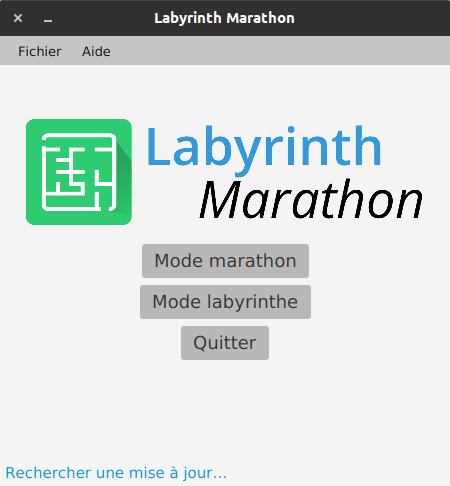
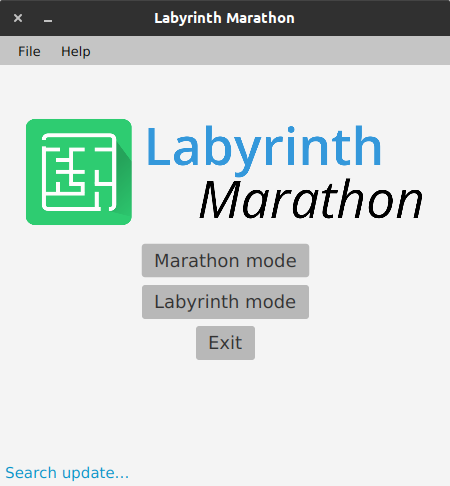
Version 1.1

diff --git a/src/view/MenuLauncher.java b/src/view/MenuLauncher.java
@@ -42,7 +42,7 @@ import javafx.stage.Stage;
 /**
  * The game menu
  * @author Eliastik
- * @version 1.0
+ * @version 1.1
  * @since 30/11/2019
  */
 public class MenuLauncher extends Application {
@@ -80,6 +80,8 @@ public class MenuLauncher extends Application {
 				alert.setHeaderText(locales.getString("aboutApp"));
 				alert.getDialogPane().getStylesheets().add(getClass().getResource("/styles/styleAlert.css").toExternalForm());
 				ImageView icon = new ImageView(new Image(getClass().getResourceAsStream("/images/icon_flat.png")));
+				Stage stageAlert = (Stage) alert.getDialogPane().getScene().getWindow();
+				stageAlert.getIcons().add(new Image("/images/icon_flat.png"));
 				icon.setFitHeight(64);
 				icon.setFitWidth(64);
 				alert.setGraphic(icon);
@@ -202,6 +204,8 @@ public class MenuLauncher extends Application {
 								Alert alert = new Alert(Alert.AlertType.INFORMATION);
 								alert.setTitle(locales.getString("updateManager"));
 								alert.getDialogPane().getStylesheets().add(getClass().getResource("/styles/styleAlert.css").toExternalForm());
+								Stage stageAlert = (Stage) alert.getDialogPane().getScene().getWindow();
+								stageAlert.getIcons().add(new Image("/images/icon_flat.png"));
 								
 								if(checkUpdate) {
 									alert.setHeaderText(locales.getString("updateAvailable"));
@@ -288,6 +292,8 @@ public class MenuLauncher extends Application {
 		alert.setTitle(title);
 		alert.setHeaderText(title);
 		alert.getDialogPane().getStylesheets().add(getClass().getResource("/styles/styleAlert.css").toExternalForm());
+		Stage stageAlert = (Stage) alert.getDialogPane().getScene().getWindow();
+		stageAlert.getIcons().add(new Image("/images/icon_flat.png"));
 		TextArea text = new TextArea();
 		text.setWrapText(true);
 		text.setEditable(false);

diff --git a/src/view/UpdateChecker.java b/src/view/UpdateChecker.java
@@ -5,6 +5,7 @@ import java.net.URLConnection;
 import java.net.URLEncoder;
 import java.text.SimpleDateFormat;
 import java.util.Date;
+import java.util.Locale;
 import java.util.Properties;
 
 import org.json.JSONObject;
@@ -13,7 +14,7 @@ import org.json.JSONTokener;
 /**
  * The updater
  * @author Eliastik
- * @version 1.0
+ * @version 1.1
  * @since 30/11/2019
  */
 public class UpdateChecker {
@@ -29,7 +30,7 @@ public class UpdateChecker {
 		
 		Properties properties = new Properties();
 		properties.load(getClass().getResourceAsStream("/appInfo.properties"));
-		this.updateSource = properties.getProperty("updateSource") + "?platform=" + URLEncoder.encode(System.getProperty("os.name").trim(), "UTF-8");
+		this.updateSource = properties.getProperty("updateSource") + "?platform=" + URLEncoder.encode(System.getProperty("os.name").trim(), "UTF-8") + "&lang=" + URLEncoder.encode(Locale.getDefault().toString().trim(), "UTF-8");
 		this.currentVersion = properties.getProperty("version");
 		
 		URL request = new URL(updateSource);

diff --git a/src/model/solvingAlgorithm/Dijkstra.java b/src/model/solvingAlgorithm/Dijkstra.java
@@ -6,7 +6,7 @@ import model.util.Position;
  * The Dijkstra Shortest Path solving algorithm<br />
  * This algorithm is a special case for the A* algorithm where the heuristic function always return 0
  * @author Eliastik
- * @version 1.0
+ * @version 1.1
  * @since 16/12/2019
  * @see <a href="https://en.wikipedia.org/wiki/Dijkstra%27s_algorithm">https://en.wikipedia.org/wiki/Dijkstra%27s_algorithm</a>
  */

diff --git a/src/model/generationAlgorithm/RecursiveDivision.java b/src/model/generationAlgorithm/RecursiveDivision.java
@@ -11,7 +11,7 @@ import model.util.Position;
 /**
  * The Recursive Division algorithm
  * @author Eliastik
- * @version 1.0
+ * @version 1.1
  * @since 09/12/2019
  * @see <a href="http://weblog.jamisbuck.org/2011/1/12/maze-generation-recursive-division-algorithm.html">http://weblog.jamisbuck.org/2011/1/12/maze-generation-recursive-division-algorithm.html</a>
  */

diff --git a/src/model/generationAlgorithm/AldousBroder.java b/src/model/generationAlgorithm/AldousBroder.java
@@ -16,7 +16,7 @@ import model.util.Position;
 /**
  * The Aldous Broder algorithm
  * @author Eliastik
- * @version 1.0
+ * @version 1.1
  * @since 30/11/2019
  * @see <a href="http://weblog.jamisbuck.org/2011/1/17/maze-generation-aldous-broder-algorithm.html">http://weblog.jamisbuck.org/2011/1/17/maze-generation-aldous-broder-algorithm.html</a>
  */

diff --git a/src/model/generationAlgorithm/HuntAndKill.java b/src/model/generationAlgorithm/HuntAndKill.java
@@ -16,7 +16,7 @@ import model.util.Position;
 /**
  * The Hunt and Kill algorithm
  * @author Eliastik
- * @version 1.0
+ * @version 1.1
  * @since 05/12/2019
  * @see <a href="http://weblog.jamisbuck.org/2011/1/24/maze-generation-hunt-and-kill-algorithm.html">http://weblog.jamisbuck.org/2011/1/24/maze-generation-hunt-and-kill-algorithm.html</a>
  */

diff --git a/src/model/generationAlgorithm/RecursiveBacktracking.java b/src/model/generationAlgorithm/RecursiveBacktracking.java
@@ -17,7 +17,7 @@ import model.util.Position;
 /**
  * The Recursive Backtracking algorithm
  * @author Eliastik
- * @version 1.0
+ * @version 1.1
  * @since 05/12/2019
  * @see <a href="http://weblog.jamisbuck.org/2010/12/27/maze-generation-recursive-backtracking">http://weblog.jamisbuck.org/2010/12/27/maze-generation-recursive-backtracking</a>
  */

diff --git a/src/model/generationAlgorithm/GrowingTree.java b/src/model/generationAlgorithm/GrowingTree.java
@@ -16,7 +16,7 @@ import model.util.Position;
 /**
  * The Growing Tree algorithm
  * @author Eliastik
- * @version 1.0
+ * @version 1.1
  * @since 05/12/2019
  * @see <a href="http://weblog.jamisbuck.org/2011/1/27/maze-generation-growing-tree-algorithm.html">http://weblog.jamisbuck.org/2011/1/27/maze-generation-growing-tree-algorithm.html</a>
  */

diff --git a/src/model/generationAlgorithm/BinaryTree.java b/src/model/generationAlgorithm/BinaryTree.java
@@ -14,7 +14,7 @@ import model.util.Position;
 /**
  * The Binary Tree algorithm
  * @author Eliastik
- * @version 1.0
+ * @version 1.1
  * @since 30/11/2019
  * @see <a href="http://weblog.jamisbuck.org/2011/2/1/maze-generation-binary-tree-algorithm.html">http://weblog.jamisbuck.org/2011/2/1/maze-generation-binary-tree-algorithm.html</a>
  */

diff --git a/src/model/generationAlgorithm/SideWinder.java b/src/model/generationAlgorithm/SideWinder.java
@@ -12,7 +12,7 @@ import model.util.Position;
 /**
  * The Side Winder algorithm
  * @author Eliastik
- * @version 1.0
+ * @version 1.1
  * @since 05/12/2019
  * @see <a href="http://weblog.jamisbuck.org/2011/2/3/maze-generation-sidewinder-algorithm.html">http://weblog.jamisbuck.org/2011/2/3/maze-generation-sidewinder-algorithm.html</a>
  */

diff --git a/src/model/generationAlgorithm/Wilson.java b/src/model/generationAlgorithm/Wilson.java
@@ -19,7 +19,7 @@ import model.util.Position;
 /**
  * The Wilson's algorithm
  * @author Eliastik
- * @version 1.0
+ * @version 1.1
  * @since 07/12/2019
  * @see <a href="http://weblog.jamisbuck.org/2011/1/20/maze-generation-wilson-s-algorithm.html">http://weblog.jamisbuck.org/2011/1/20/maze-generation-wilson-s-algorithm.html</a>
  */

diff --git a/src/model/generationAlgorithm/Prim.java b/src/model/generationAlgorithm/Prim.java
@@ -14,7 +14,7 @@ import model.util.Position;
 /**
  * The Prim's algorithm
  * @author Eliastik
- * @version 1.0
+ * @version 1.1
  * @since 06/12/2019
  * @see <a href="http://weblog.jamisbuck.org/2011/1/10/maze-generation-prim-s-algorithm.html">http://weblog.jamisbuck.org/2011/1/10/maze-generation-prim-s-algorithm.html</a>
  */
